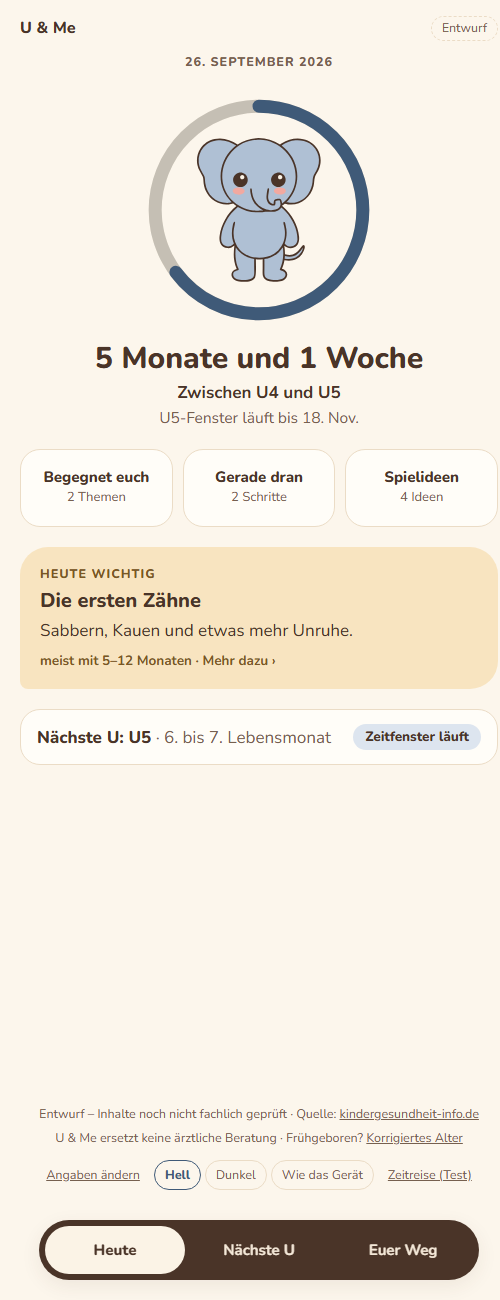
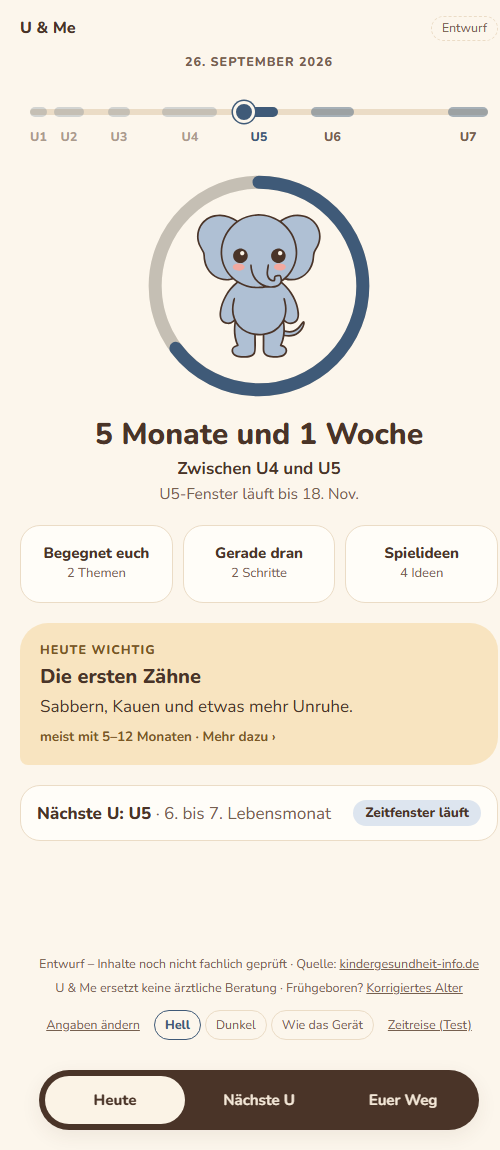
U-Zeitleiste fest auf der Startseite
- Neue Komponente UZeitleiste: U1–U7-Fenster, heute als Punkt, vergangene gedämpft,
  nächste U hervorgehoben; Beschriftungen verlinken auf die U-Seiten
- Zeitreise nutzt dieselbe Leiste als Schieberegler

diff --git a/src/components/Zeitreise.tsx b/src/components/Zeitreise.tsx
@@ -1,6 +1,6 @@
-import { alterAm, alterAlsText, datumBeiAlter, datumFormat, tageZwischen } from '../lib/alter';
-import { uTermine } from '../lib/inhalte';
+import { alterAm, alterAlsText, datumFormat, tageZwischen } from '../lib/alter';
 import type { Kind } from '../lib/kind';
+import { UZeitleiste } from './UZeitleiste';
 
 type Props = {
   kind: Kind;
@@ -8,23 +8,9 @@ type Props = {
   onBeenden: () => void;
 };
 
-const SCHRITTE = 1000;
-const plusTage = (d: Date, n: number) => new Date(d.getFullYear(), d.getMonth(), d.getDate() + n);
-
-/**
- * Test-Werkzeug: Datum per Schieberegler simulieren – mit den U-Terminen als Marken auf der Schiene.
- * Die Schiene ist am Anfang gedehnt (Wurzel-Skala): Die ersten Wochen, in denen U1–U3 liegen
- * und sich viel tut, bekommen mehr Platz. Nichts wird gespeichert.
- */
+/** Test-Werkzeug: Datum per Schieberegler simulieren. Nichts wird gespeichert. */
 export function Zeitreise({ kind, onDatum, onBeenden }: Props) {
-  const maxTage = tageZwischen(kind.geburt, datumBeiAlter(kind.geburt, { monate: 24 })) - 1;
-  const position = (tage: number) => Math.sqrt(Math.min(Math.max(tage, 0), maxTage) / maxTage); // 0 … 1
-  const tageAus = (wert: number) => Math.round((wert / SCHRITTE) ** 2 * maxTage);
-  const prozent = (tage: number) => `${position(tage) * 100}%`;
-
   const tage = tageZwischen(kind.geburt, kind.jetzt);
-  const termine = uTermine(kind);
-
   return (
     <section className="zeitreise" aria-label="Zeitreise">
       <div className="zeitreise-kopf">
@@ -37,48 +23,7 @@ export function Zeitreise({ kind, onDatum, onBeenden }: Props) {
           ×
         </button>
       </div>
-
-      <div className="zr-schiene">
-        {/* U-Zeitfenster als Abschnitte auf der Schiene */}
-        <div className="zr-spur" aria-hidden="true">
-          {termine.map((t) => {
-            const von = tageZwischen(kind.geburt, t.beginn);
-            const bis = tageZwischen(kind.geburt, t.ende);
-            return (
-              <span
-                key={t.untersuchung.id}
-                className="zr-fenster"
-                style={{ left: prozent(von), width: `calc(${prozent(bis)} - ${prozent(von)})` }}
-              />
-            );
-          })}
-        </div>
-        <input
-          type="range"
-          className="zr-regler"
-          min={0}
-          max={SCHRITTE}
-          step={1}
-          value={Math.round(position(tage) * SCHRITTE)}
-          onChange={(e) => onDatum(plusTage(kind.geburt, tageAus(Number(e.target.value))))}
-          aria-label="Datum wählen"
-          aria-valuetext={datumFormat.format(kind.jetzt)}
-        />
-      </div>
-
-      <div className="zr-marken" aria-hidden="true">
-        {termine.map((t) => (
-          <span
-            key={t.untersuchung.id}
-            style={{
-              // mittig unter dem Zeitfenster
-              left: `${((position(tageZwischen(kind.geburt, t.beginn)) + position(tageZwischen(kind.geburt, t.ende))) / 2) * 100}%`,
-            }}
-          >
-            {t.untersuchung.id}
-          </span>
-        ))}
-      </div>
+      <UZeitleiste kind={kind} onDatum={onDatum} />
     </section>
   );
 }

diff --git a/src/components/UZeitleiste.tsx b/src/components/UZeitleiste.tsx
@@ -1,0 +1,78 @@
+import { Link } from 'react-router-dom';
+import { datumBeiAlter, datumFormat, tageZwischen } from '../lib/alter';
+import { naechsteUntersuchung, uTermine } from '../lib/inhalte';
+import type { Kind } from '../lib/kind';
+
+type Props = {
+  kind: Kind;
+  /** Mit Callback wird die Leiste zum Schieberegler (Zeitreise), sonst nur Anzeige */
+  onDatum?: (datum: Date) => void;
+};
+
+const SCHRITTE = 1000;
+const plusTage = (d: Date, n: number) => new Date(d.getFullYear(), d.getMonth(), d.getDate() + n);
+
+/**
+ * Zeitleiste U1–U7 mit den U-Zeitfenstern als Abschnitten und „heute“ als Punkt.
+ * Die Achse ist am Anfang gedehnt (Wurzel-Skala), damit U1–U3 in den ersten Wochen
+ * nicht übereinanderliegen.
+ */
+export function UZeitleiste({ kind, onDatum }: Props) {
+  const maxTage = tageZwischen(kind.geburt, datumBeiAlter(kind.geburt, { monate: 24 })) - 1;
+  const position = (tage: number) => Math.sqrt(Math.min(Math.max(tage, 0), maxTage) / maxTage); // 0 … 1
+  const prozent = (tage: number) => `${position(tage) * 100}%`;
+  const tageBis = (d: Date) => tageZwischen(kind.geburt, d);
+
+  const heute = tageBis(kind.jetzt);
+  const naechste = naechsteUntersuchung(kind)?.untersuchung.id;
+  const termine = uTermine(kind).map((t) => ({
+    ...t,
+    von: tageBis(t.beginn),
+    bis: tageBis(t.ende),
+    zustand: t.ende <= kind.jetzt ? 'vorbei' : t.untersuchung.id === naechste ? 'naechste' : 'kommend',
+  }));
+
+  return (
+    <div className={`u-zeitleiste ${onDatum ? 'interaktiv' : ''}`}>
+      <div className="zr-schiene">
+        <div className="zr-spur" aria-hidden="true">
+          {termine.map((t) => (
+            <span
+              key={t.untersuchung.id}
+              className={`zr-fenster ${t.zustand}`}
+              style={{ left: prozent(t.von), width: `calc(${prozent(t.bis)} - ${prozent(t.von)})` }}
+            />
+          ))}
+        </div>
+        {onDatum ? (
+          <input
+            type="range"
+            className="zr-regler"
+            min={0}
+            max={SCHRITTE}
+            step={1}
+            value={Math.round(position(heute) * SCHRITTE)}
+            onChange={(e) => onDatum(plusTage(kind.geburt, Math.round((Number(e.target.value) / SCHRITTE) ** 2 * maxTage)))}
+            aria-label="Datum wählen"
+            aria-valuetext={datumFormat.format(kind.jetzt)}
+          />
+        ) : (
+          <span className="zr-heute" style={{ left: prozent(heute) }} aria-hidden="true" />
+        )}
+      </div>
+
+      <nav className="zr-marken" aria-label="U-Untersuchungen">
+        {termine.map((t) => (
+          <Link
+            key={t.untersuchung.id}
+            to={`/u/${t.untersuchung.id}`}
+            className={t.zustand}
+            style={{ left: `${((position(t.von) + position(t.bis)) / 2) * 100}%` }}
+          >
+            {t.untersuchung.id}
+          </Link>
+        ))}
+      </nav>
+    </div>
+  );
+}

diff --git a/src/styles/app.css b/src/styles/app.css
@@ -296,13 +296,21 @@ fieldset { border: 0; margin: 0; padding: 0; min-width: 0; }
 .zr-schiene { position: relative; height: 32px; margin: 4px 10px 0; }
 .zr-spur { position: absolute; left: 0; right: 0; top: 13px; height: 6px; border-radius: 3px; background: var(--farbe-linie); }
 .zr-fenster { position: absolute; top: -2px; height: 10px; min-width: 4px; border-radius: 5px; background: var(--farbe-akzent); opacity: .45; }
+.zr-fenster.vorbei { opacity: .22; }
+.zr-fenster.naechste { opacity: 1; }
+.zr-heute { position: absolute; top: 5px; width: 22px; height: 22px; margin-left: -11px; border-radius: 50%; background: var(--farbe-akzent); border: 3px solid var(--farbe-hintergrund); box-shadow: 0 0 0 1.5px var(--farbe-akzent); }
+.u-zeitleiste { width: 100%; }
 .zr-regler { position: absolute; inset: 0; width: 100%; height: 32px; margin: 0; background: transparent; appearance: none; -webkit-appearance: none; cursor: pointer; }
 .zr-regler::-webkit-slider-runnable-track { height: 32px; background: transparent; }
 .zr-regler::-moz-range-track { height: 32px; background: transparent; }
 .zr-regler::-webkit-slider-thumb { -webkit-appearance: none; width: 24px; height: 24px; margin-top: 4px; border-radius: 50%; background: var(--farbe-akzent); border: 3px solid var(--farbe-flaeche); box-shadow: var(--schatten-weich); }
 .zr-regler::-moz-range-thumb { width: 18px; height: 18px; border-radius: 50%; background: var(--farbe-akzent); border: 3px solid var(--farbe-flaeche); }
 .zr-marken { position: relative; height: 18px; margin: 0 10px; font-size: 12.5px; font-weight: 800; color: var(--farbe-text-gedaempft); }
-.zr-marken span { position: absolute; top: 0; transform: translateX(-50%); }
+.zr-marken a { position: absolute; top: 0; transform: translateX(-50%); text-decoration: none; padding: 0 2px; }
+.zr-marken a.vorbei { opacity: .6; }
+.zr-marken a.naechste { color: var(--farbe-akzent-text); }
+.zr-marken a:hover { text-decoration: underline; }
+.u-zeitleiste .zr-marken { height: 20px; }
 /* ---------- Desktop ab 900 px ---------- */
 @media (min-width: 900px) {
   .kopfzeile { max-width: var(--inhalt-max); margin: 0 auto; padding: 22px 40px 0; }

diff --git a/src/components/Heute.tsx b/src/components/Heute.tsx
@@ -8,6 +8,7 @@ import {
   type Etappe,
 } from '../lib/inhalte';
 import type { Kind } from '../lib/kind';
+import { UZeitleiste } from './UZeitleiste';
 import { Zeitring } from './Zeitring';
 
 /** Startseite im reduzierten Stil: ein Zentrum, drei Kacheln, eine wichtige Sache */
@@ -29,6 +30,7 @@ export function Heute({ kind }: { kind: Kind }) {
   return (
     <div className="heute">
       <p className="heute-datum">{datumFormat.format(kind.jetzt)}</p>
+      <UZeitleiste kind={kind} />
       <Zeitring kind={kind} />
 
       <nav className="kacheln" aria-label="Bereiche">
